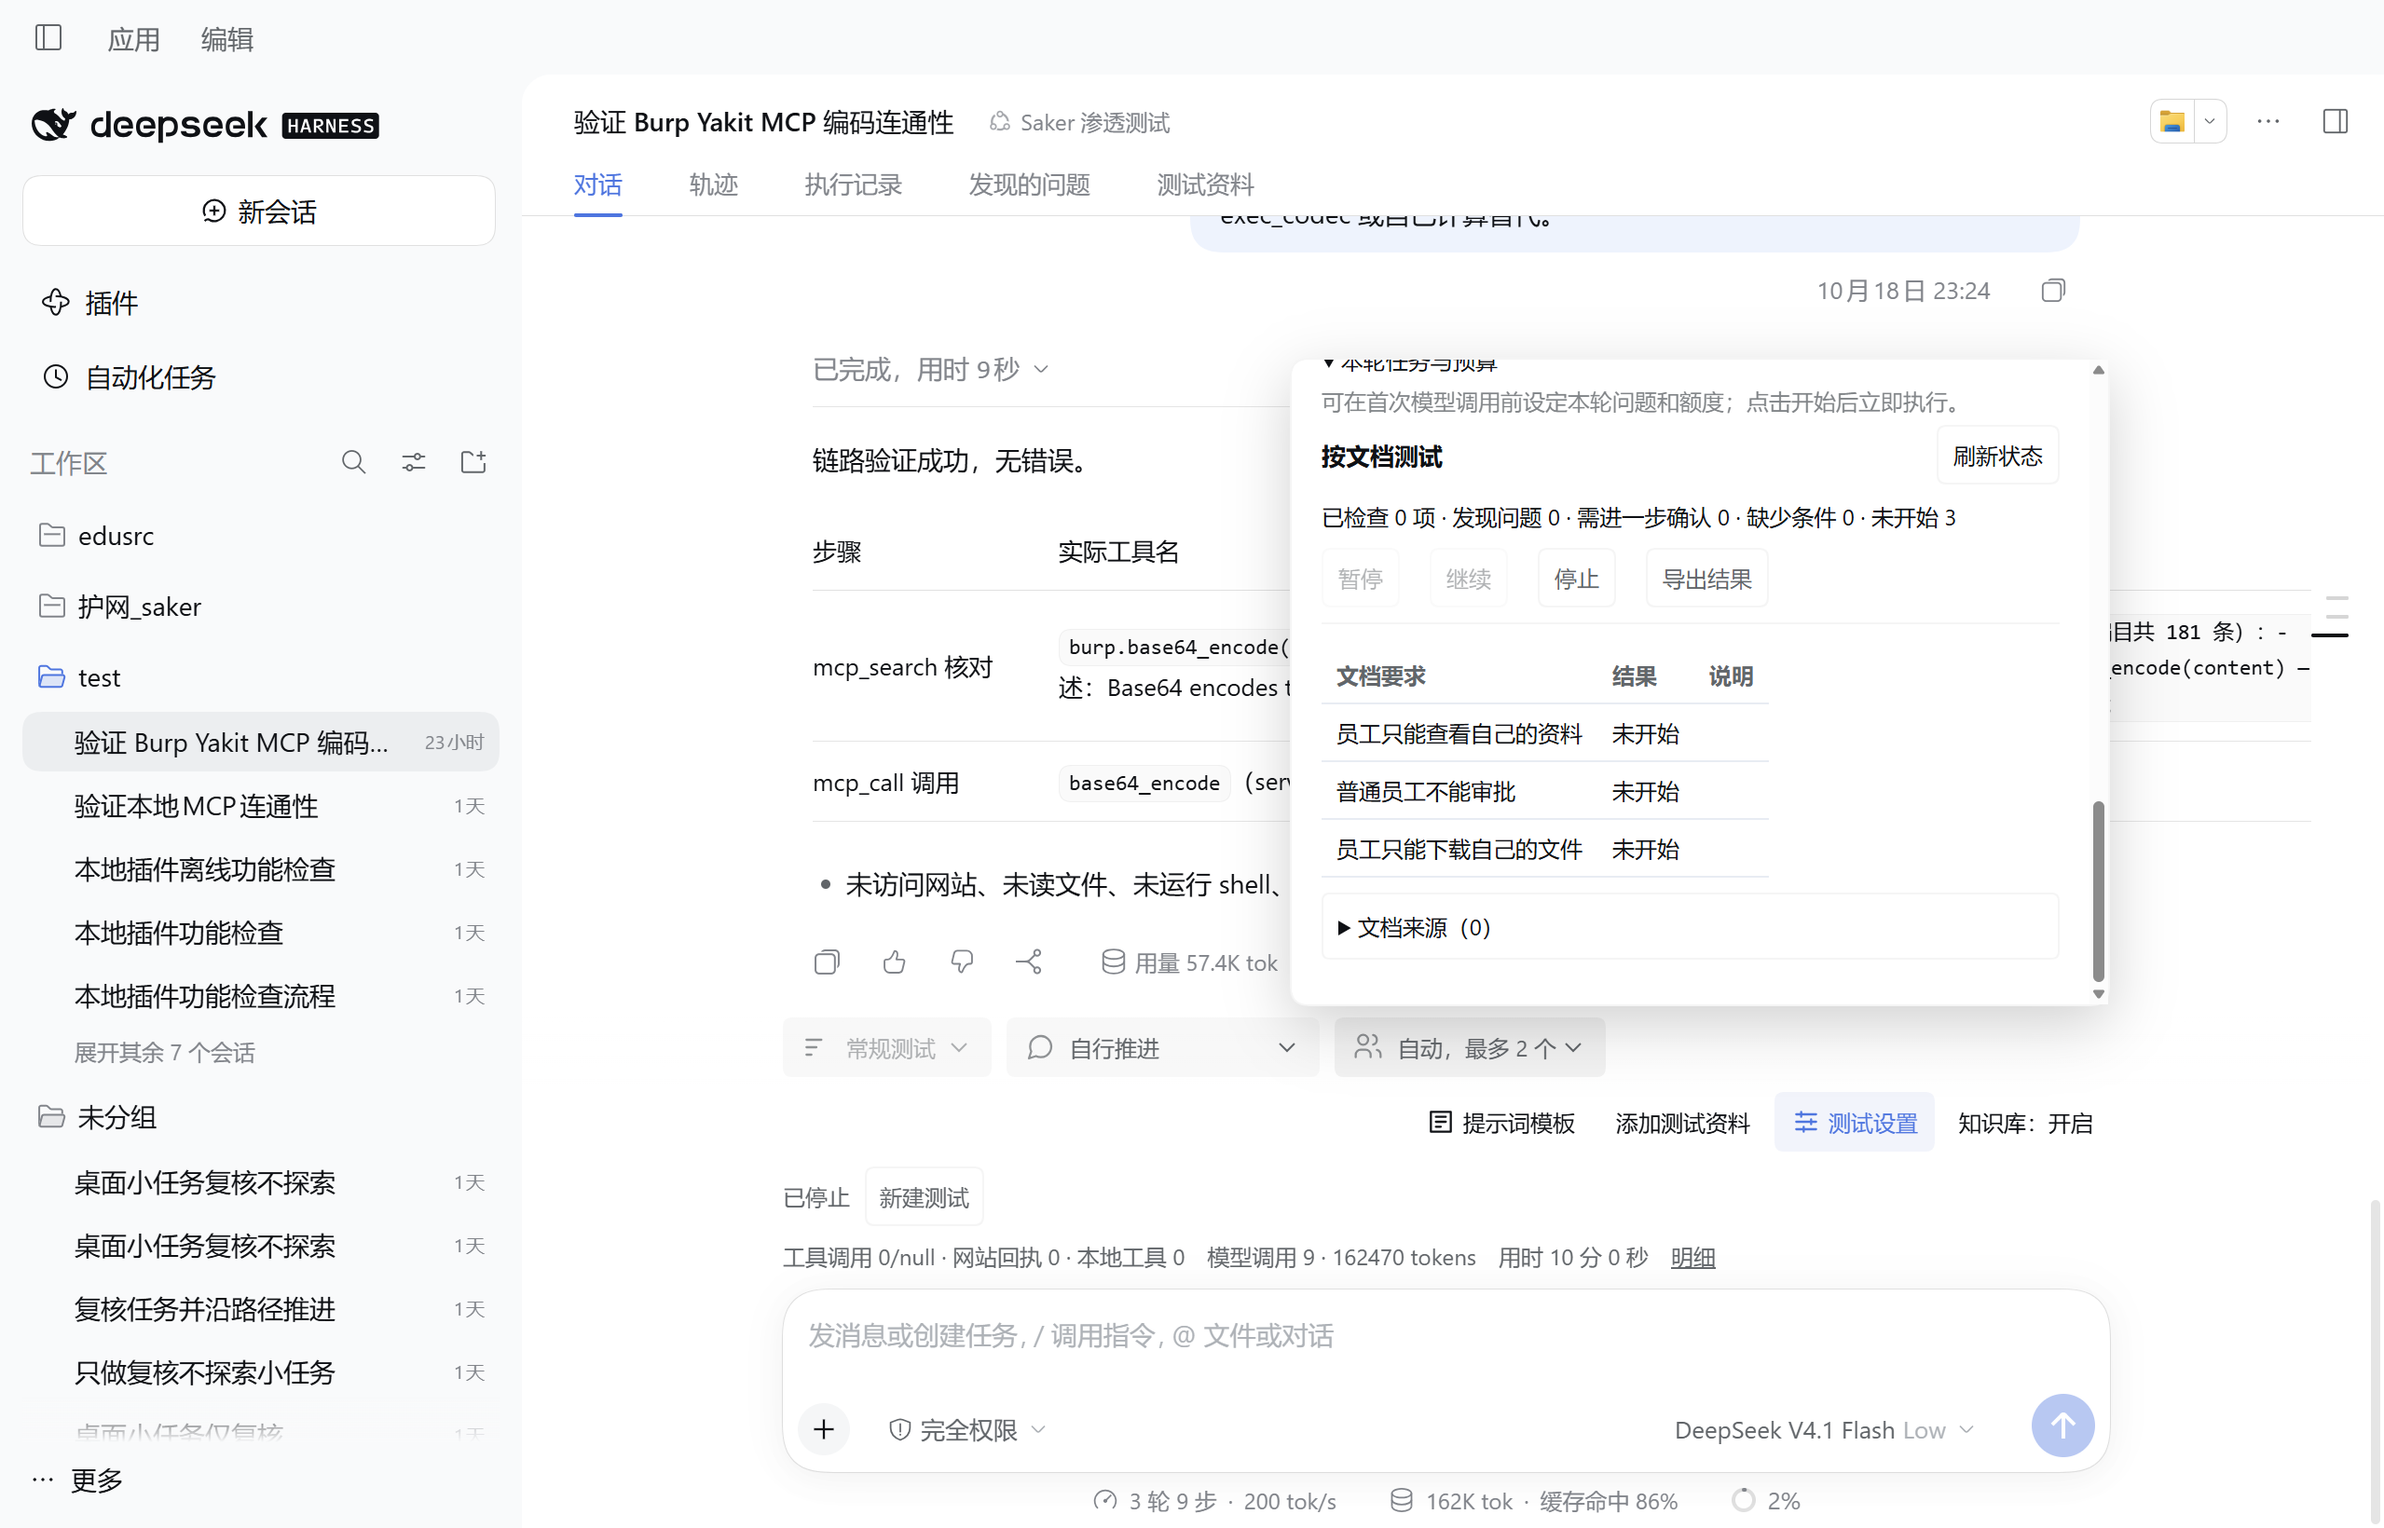
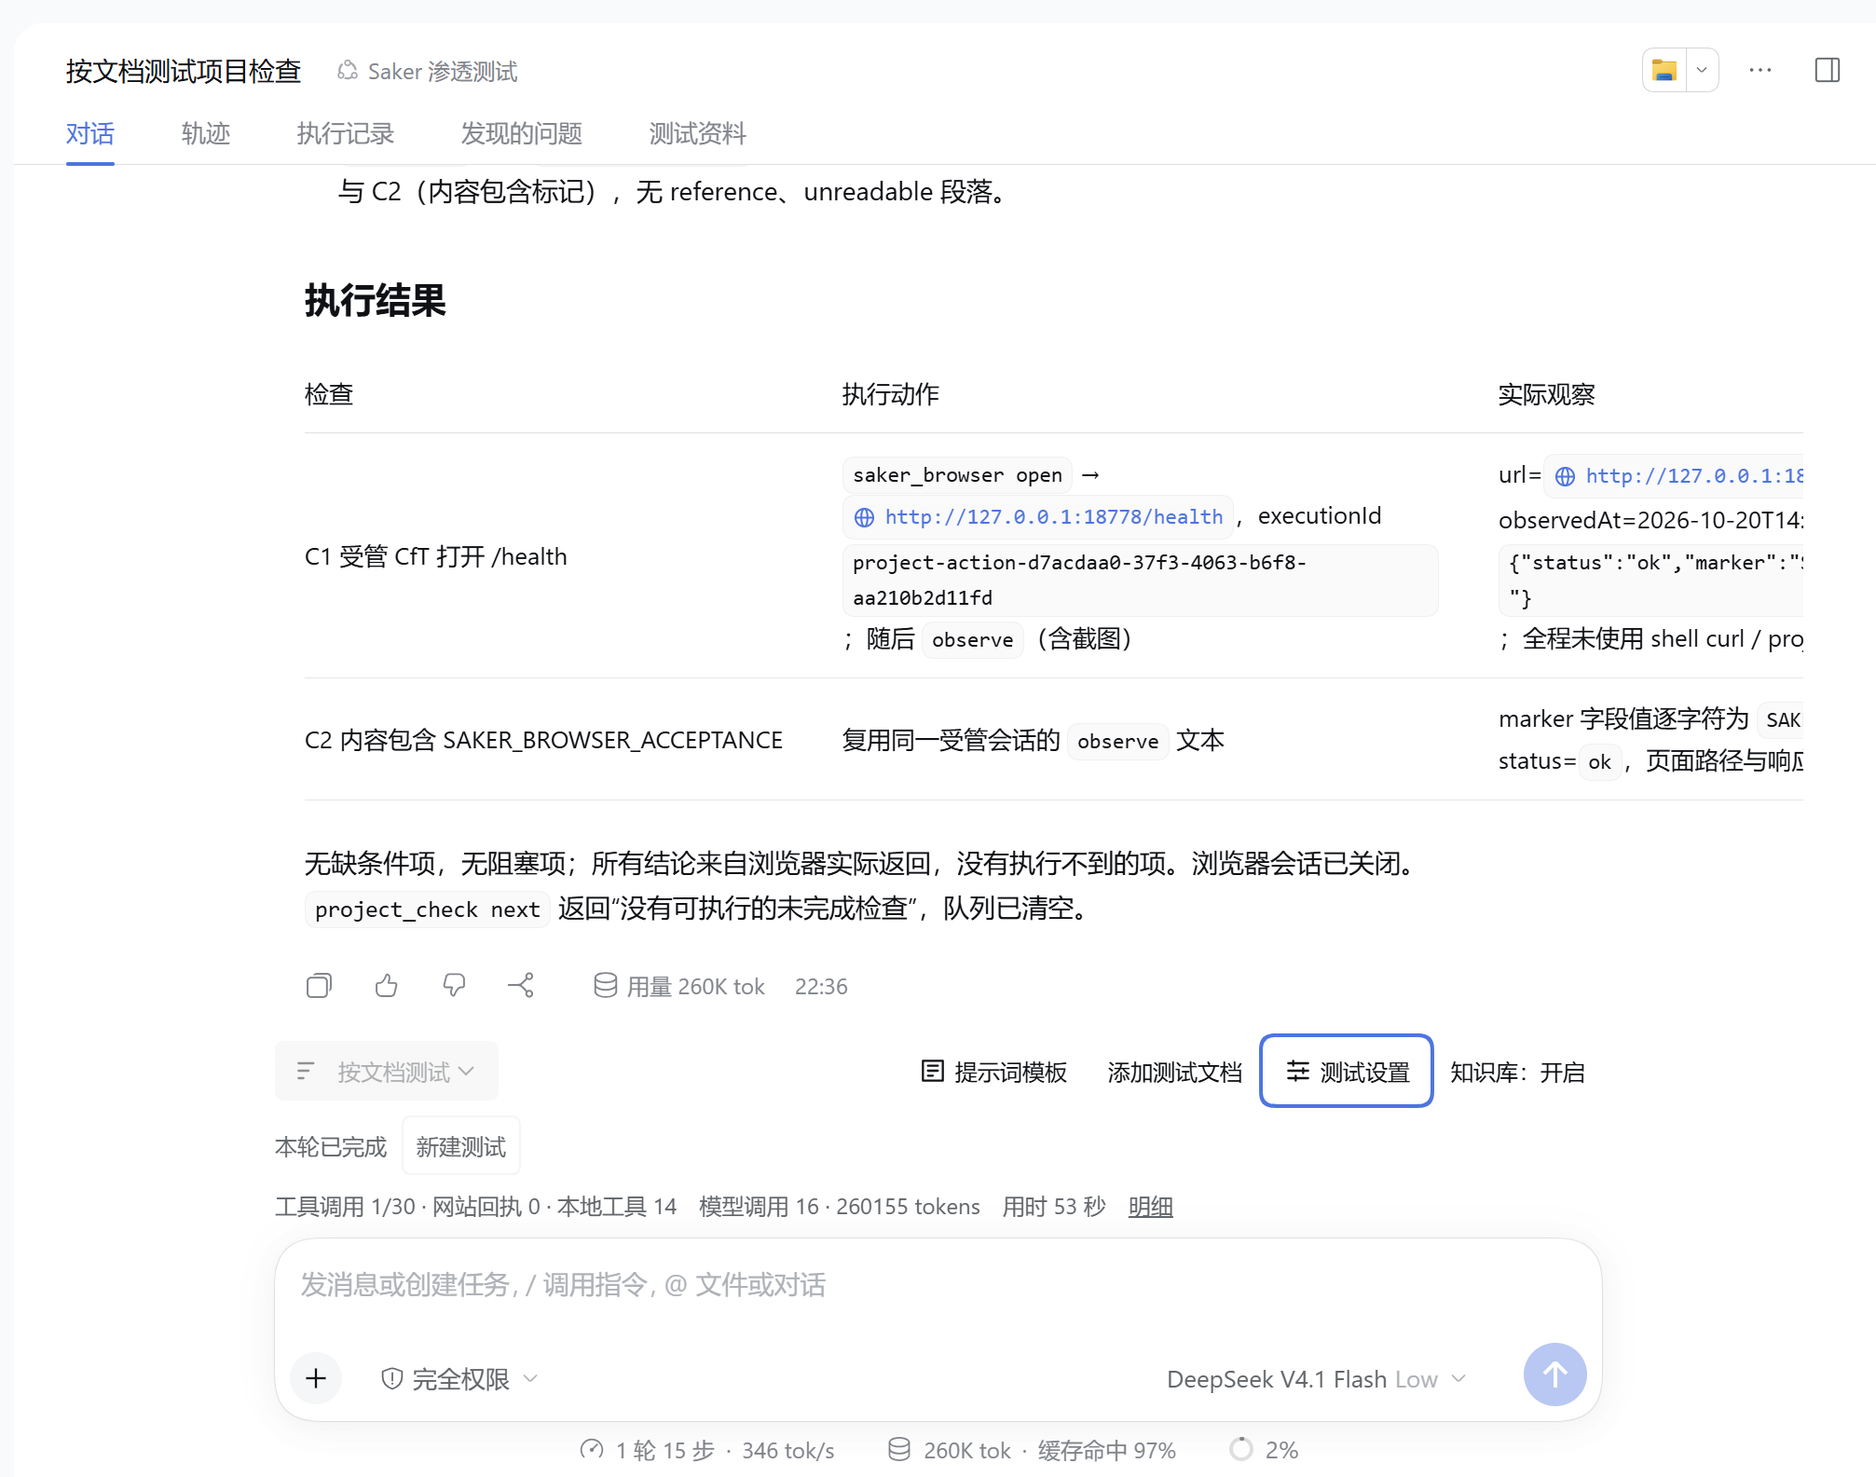
release: Saker 0.4.112

diff --git a/docs/getting-started.md b/docs/getting-started.md
@@ -1,13 +1,13 @@
 # 桌面端安装与首次配置
 
-当前版本：Saker **0.4.111**。宿主：Windows 官方 DeepSeek Harness Desktop **0.2.1-rc.2**（同时兼容 0.2.0-rc.2）。
+当前版本：Saker **0.4.112**。宿主：Windows 官方 DeepSeek Harness Desktop **0.2.1-rc.2**（同时兼容 0.2.0-rc.2）。
 
 [下载 Saker](https://github.com/ITroyeSivan/Saker/releases/latest) · [下载对应官方桌面](https://github.com/deepseek-ai/deepseek-harness/releases/tag/dsh-v0.2.1-rc.2)
 
 ## 使用发布包
 
 1. 安装并打开官方 Desktop，完成首次初始化，配置一个可用模型。
-2. 下载 `Saker-0.4.111-desktop.zip`，解压到长期保留的目录。
+2. 下载 `Saker-0.4.112-desktop.zip`，解压到长期保留的目录。
 3. 完全退出 Desktop。在解压目录打开 PowerShell，运行：
 
 ```powershell
@@ -25,7 +25,7 @@ node scripts/install-desktop.mjs --desktop-dir "C:/实际安装目录/DeepSeek H
 
 从旧版升级请优先使用安装器：它先通过官方命令移除 AttackAtlas、战役记忆、WebShell 管理，再安装当前 20 个包，不删除历史数据库。手动安装前应在插件页卸载这三项，避免旧入口继续加载。
 
-不想使用脚本时，可在官方「插件」页依次安装发布包内的 tgz：先功能插件，最后 `dsh-saker-0.4.111.tgz`，再按应用提示重启。应用内安装使用桌面自带的 Node 和 pnpm，无需额外安装它们。
+不想使用脚本时，可在官方「插件」页依次安装发布包内的 tgz：先功能插件，最后 `dsh-saker-0.4.112.tgz`，再按应用提示重启。应用内安装使用桌面自带的 Node 和 pnpm，无需额外安装它们。
 
 如果需要命令行管理插件，通过应用菜单「管理 dsh 命令」安装桌面自带命令；完全退出应用后再操作 desktop profile。不要用 npm 安装的独立 dsh 命令修改它。
 

diff --git a/README.md b/README.md
@@ -1,5 +1,5 @@
 <p align="center">
-  <img src="docs/media/project-panel.png" alt="Saker 按文档测试面板" width="920">
+  <img src="docs/media/project-panel.png" alt="Saker 在官方 DeepSeek Harness Desktop 中完成按文档测试" width="920">
 </p>
 
 <h1 align="center">Saker · 猎隼</h1>
@@ -44,7 +44,7 @@ Saker 是运行在 [DeepSeek Harness Desktop](https://github.com/deepseek-ai/dee
 4. 所有来源处理完且检查结束后自动收尾；只有缺条件项时显示等待，不伪装完成。
 5. 报告、检查表和来源清单从同一份已保存事实导出，不会重新访问目标。
 
-![按文档测试面板](docs/media/project-panel.png)
+> 上图来自官方 Desktop 的真实完成态：检查由受管 Chrome for Testing 执行，实际观察、执行回执和自动收尾在同一页可见。
 
 ### 实战挖掘
 
@@ -88,10 +88,10 @@ Saker 是运行在 [DeepSeek Harness Desktop](https://github.com/deepseek-ai/dee
 
 ## 安装
 
-当前版本 **0.4.111**，适用于官方 Windows Desktop **0.2.1-rc.2**，同时兼容 **0.2.0-rc.2**。
+当前版本 **0.4.112**，适用于官方 Windows Desktop **0.2.1-rc.2**，同时兼容 **0.2.0-rc.2**。
 
 1. 安装官方 Desktop，完成初始化和模型配置，然后完全退出应用。
-2. 下载 `Saker-0.4.111-desktop.zip`，解压到长期保留的目录。
+2. 下载 `Saker-0.4.112-desktop.zip`，解压到长期保留的目录。
 3. 在解压目录打开 PowerShell：
 
 ```powershell

diff --git a/docs/release-v0.4.112.md b/docs/release-v0.4.112.md
@@ -1,0 +1,18 @@
+### ✨ 新增功能
+
+- 无运行时新增功能；本版沿用 0.4.111 的按文档测试、受管浏览器、连续推进、自动收尾和结果导出能力。
+
+### 🐛 问题修复
+
+- 修复 README 首图仍展示旧版项目设置遮罩的问题，避免用户误以为主界面被面板挡住。
+- 删除 README 中重复的同一张项目截图，首屏改为清楚展示检查、实际动作、观察结果和完成状态。
+
+### 🎨 体验优化
+
+- README 重新组织下载、两种工作入口、资料到交付、真实浏览器、结果语义和安装边界，首屏直接说明 Saker 与普通聊天壳的区别。
+- 官方 Desktop 截图更新为 0.4.111 的真实受管 CfT 完成态，并保留“程序记录事实、模型和用户完成判断”的边界说明。
+
+### ⚠ 其他变更
+
+- 版本更新到 0.4.112；`dsh-redteam-results` 保持 1.0.182。
+- 适用于官方 Windows Desktop 0.2.1-rc.2，同时兼容 0.2.0-rc.2；更新沿用原用户数据、会话和 MCP 配置。
